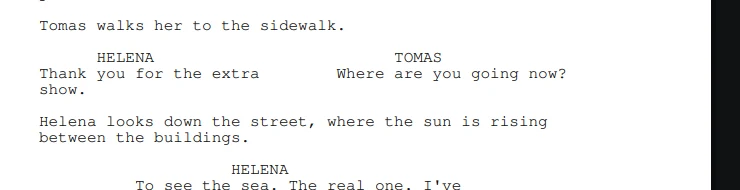
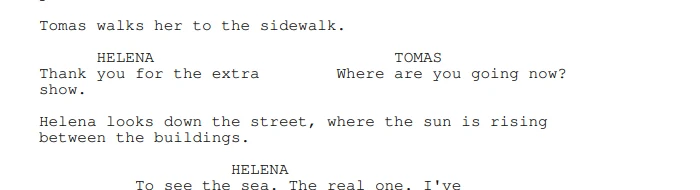
Even out the spacing of the writing cards
The gap between card rows applied to only one of them, so a title sat about
14px under the panel above. Every row is now 64px apart (48px between stacked
cards on a phone), and the panels have a fixed height, so the panels side by
side start on the same line whatever the length of the text above them.

The English dual dialogue crop ended past the page and showed a strip of the
dark window; it now stops at the paper, in the capture tool too.

diff --git a/src/site.css b/src/site.css
@@ -35,8 +35,11 @@ kbd { font-family: var(--font-mono); font-size: 13px; padding: 2px 7px; border: 
 .frame--dark { border-color: color-mix(in srgb, #fff 14%, transparent); box-shadow: none; }
 
 /* recortes da escrita: a lista de elementos, o autocompletar, o diálogo duplo, as convenções */
-#escrita .grid + .grid { margin-top: var(--s-7); }
-#escrita .panel { --p-h: 300px; }
+/* Um espaço só entre as fileiras de cartões, maior que o de dentro do cartão (32px até o quadro), e a
+   descrição ocupa a sobra para os quadros lado a lado começarem na mesma altura. */
+#escrita .group + .grid, #escrita .grid + .grid { margin-top: var(--s-8); }
+#escrita .card > p { flex: 1 0 auto; }
+#escrita .panel { --p-h: 300px; height: var(--p-h); flex: none; }
 .panel--shot { display: grid; place-items: center; padding: 24px; }
 .panel.panel--shot > .frame__img { position: static; inset: auto; max-width: 100%; max-height: 100%; width: auto; height: auto; object-fit: contain; border-radius: var(--r-sm); box-shadow: 0 10px 30px rgba(20, 24, 40, .14); }
 .panel.crop--page > .frame__img { width: 100%; height: auto; }
@@ -137,6 +140,9 @@ html:not(.mo-js) .vstack { display: none; }
   .keys-shot { height: 320px; }
   .faq-shot { margin-top: var(--s-5); }
   #escrita .panel { --p-h: 200px; }
+  /* No celular os cartões empilham: o mesmo espaço entre cartões da fileira e entre fileiras. */
+  #escrita .grid { row-gap: var(--s-7); }
+  #escrita .group + .grid, #escrita .grid + .grid { margin-top: var(--s-7); }
   .panel--shot { padding: 12px; }
   .hero-shot .float-card { width: auto; right: 16px; left: 16px; bottom: 16px; }
   .mq { font-size: 22px; }

diff --git a/tools/capture/capture.py b/tools/capture/capture.py
@@ -28,7 +28,7 @@ THEMES = {'light': 1, 'dark': 2}   # ThemeManager::Mode
 CROPS = {
     'pt': {'elements': (600, 40, 880, 280), 'autocomplete': (560, 620, 1240, 860), 'dual': (560, 495, 1240, 680),
            'spell': (560, 250, 1260, 540)},
-    'en': {'elements': (600, 40, 880, 280), 'autocomplete': (560, 640, 1240, 860), 'dual': (560, 250, 1300, 440),
+    'en': {'elements': (600, 40, 880, 280), 'autocomplete': (560, 640, 1240, 860), 'dual': (560, 250, 1260, 440),
            'spell': (560, 250, 1260, 540)},
 }
 # Onde clicar: a fala de Tomás que vira diálogo duplo, e o meio da palavra que leva um erro de digitação.
